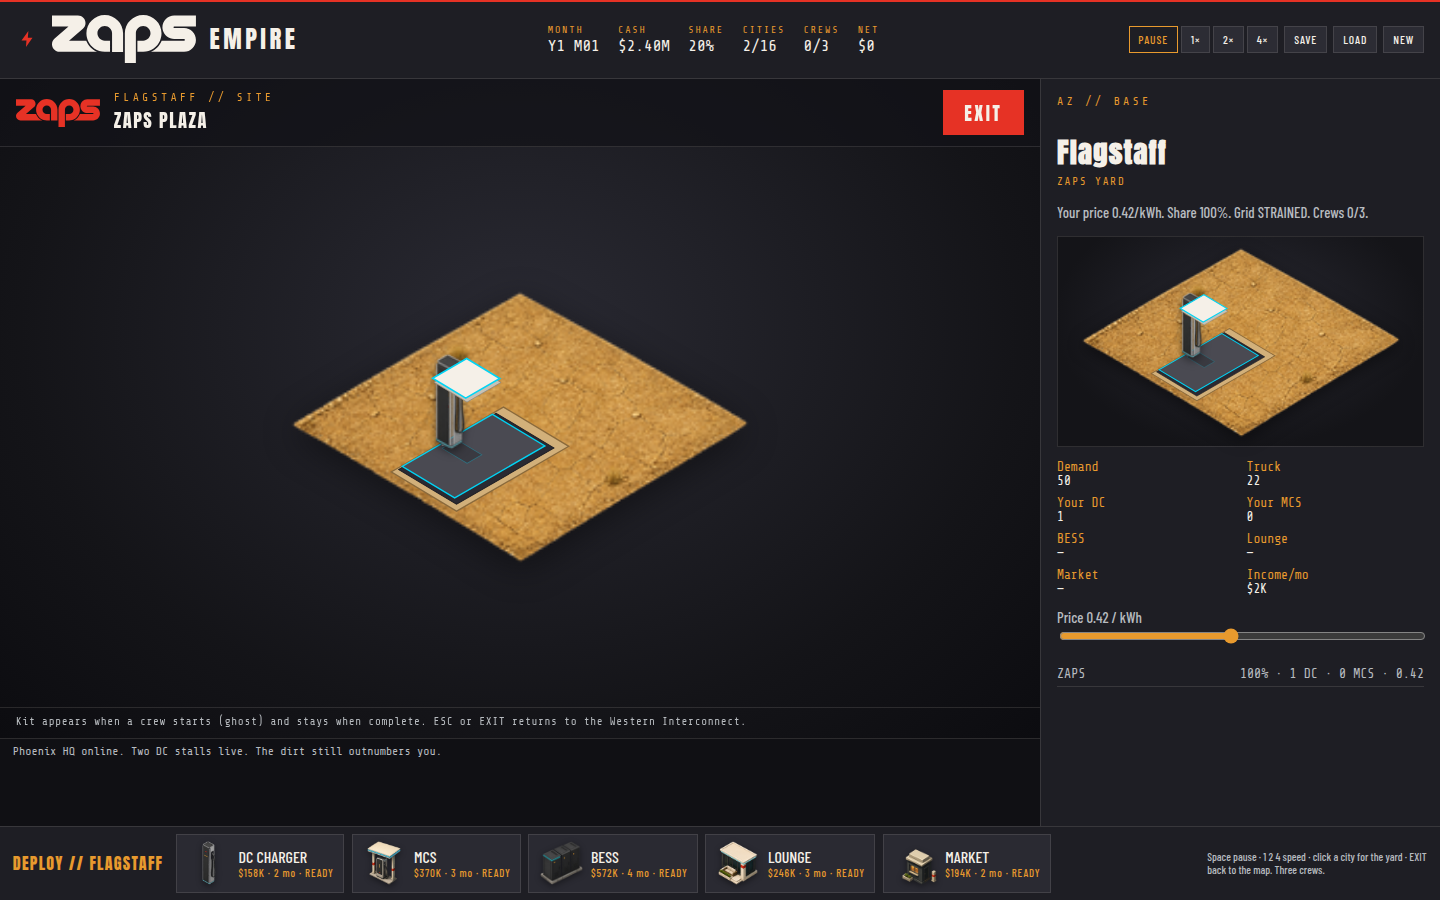
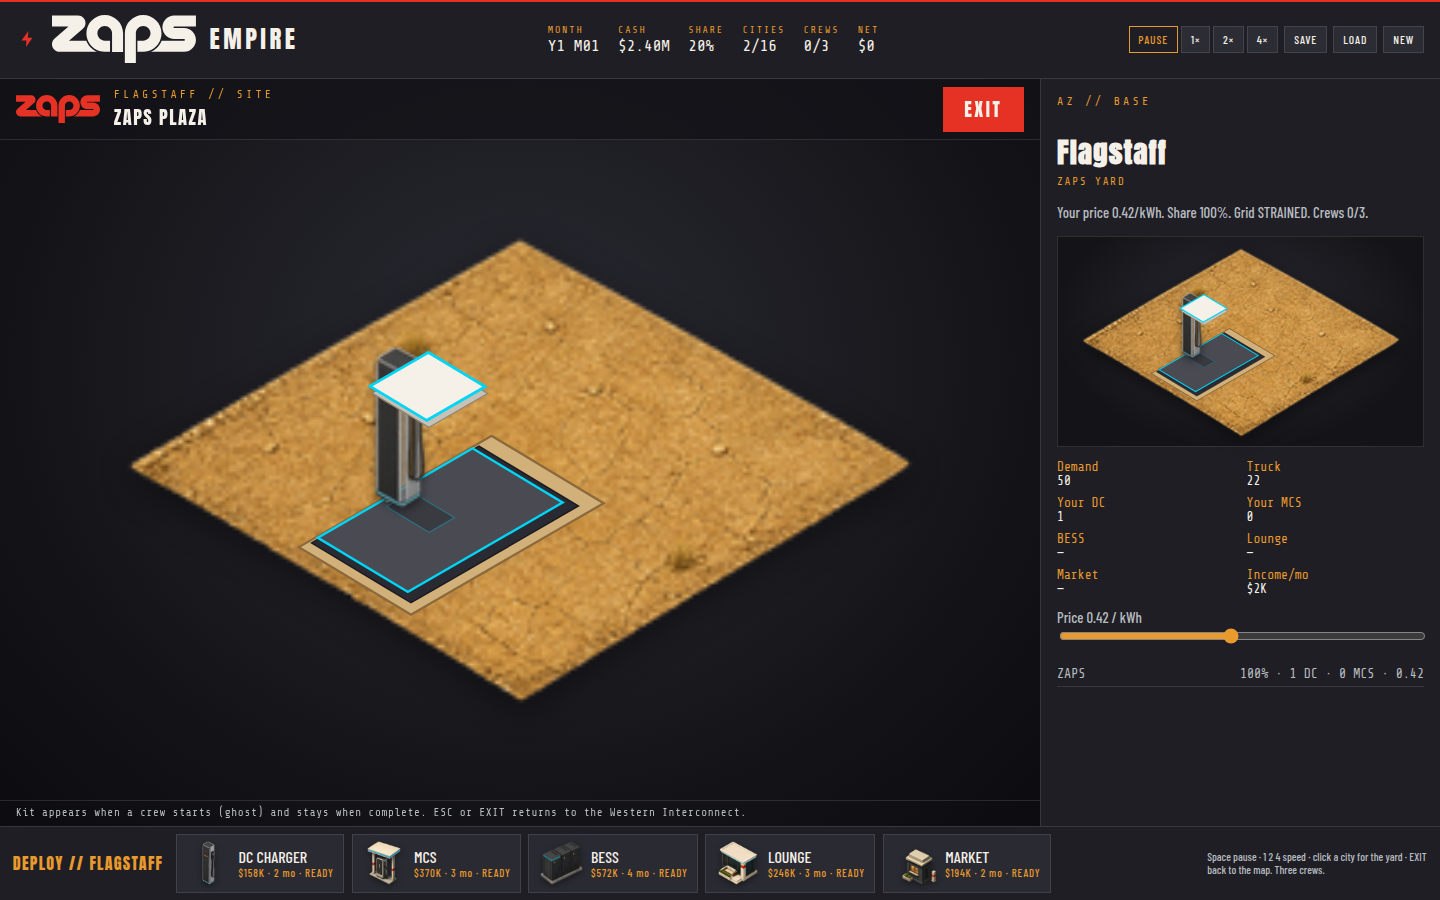
Raise yard to Goldilocks: 76% pad, not postage stamp
The 46%/460 frame starved height and left a tiny diamond in a
black void. Collapse the ticker in site view and size the stack
to 76% of the yard (790px at 1440). Recapture start/dc/lounge-bess/
mcs-market stills.

diff --git a/styles.css b/styles.css
@@ -306,6 +306,16 @@ button {
   background: #0b2436;
 }
 
+.map-wrap:has(.site-overlay:not(.hidden)) {
+  grid-template-rows: 1fr 0;
+}
+
+.map-wrap:has(.site-overlay:not(.hidden)) .ticker {
+  overflow: hidden;
+  padding: 0;
+  border: 0;
+}
+
 .map-stage {
   position: relative;
   min-height: 0;
@@ -493,7 +503,7 @@ button {
   align-items: center;
   justify-content: space-between;
   gap: 1rem;
-  padding: 0.7rem 1rem 0.65rem;
+  padding: 0.5rem 1rem 0.45rem;
   border-bottom: 1px solid var(--line);
   background: rgba(18, 18, 23, 0.72);
 }
@@ -679,7 +689,7 @@ button {
 
 .site-overlay-note {
   margin: 0;
-  padding: 0.45rem 1rem 0.6rem;
+  padding: 0.32rem 1rem 0.4rem;
   font-family: "Share Tech Mono", monospace;
   font-size: 0.68rem;
   letter-spacing: 0.06em;

diff --git a/game.js b/game.js
@@ -1534,7 +1534,7 @@
     if (boxW < 40 || boxH < 40) return;
     const ratio = aw / ah;
     const maxW = Math.min(boxW * 0.76, 800);
-    const maxH = Math.min(boxH * 0.88, 500);
+    const maxH = Math.min(boxH * 0.92, 520);
     let w = maxW;
     let h = w / ratio;
     if (h > maxH) {

diff --git a/docs/shots/REVIEW.md b/docs/shots/REVIEW.md
@@ -6,7 +6,9 @@ Replay: `?shot=start` · `?shot=dc` · `?shot=lounge-bess` · `?shot=mcs-market`
 
 ## Framing
 
-Goldilocks yard scale: **full pad + a bit of sand margin**, about **76% of the yard box** (cap 800×500). Not the pass-#17 canopy close-up (`88%` / `820px`) and not the PR-#18 postage stamp (`46%` / `460px`).
+Goldilocks yard scale: **full pad + a bit of sand margin**, about **76% of the yard box** (measured 790×470 in a 1040×521 yard at 1440×900). Not the pass-#17 canopy close-up (`88%` / `820px`) and not the first PR-#18 postage stamp (`46%` / `460px`).
+
+The site overlay collapses the interconnect ticker so the yard is tall enough for that width. Kit stays readable.
 
 Kit should read as an RTS town center — readable silhouettes, intentional density. Plaza island, shared DC canopy, grow-on-deploy, inventory sync, EXIT, pan, and wordmarks are unchanged. Western Interconnect default camera stays at scale 1.
 
